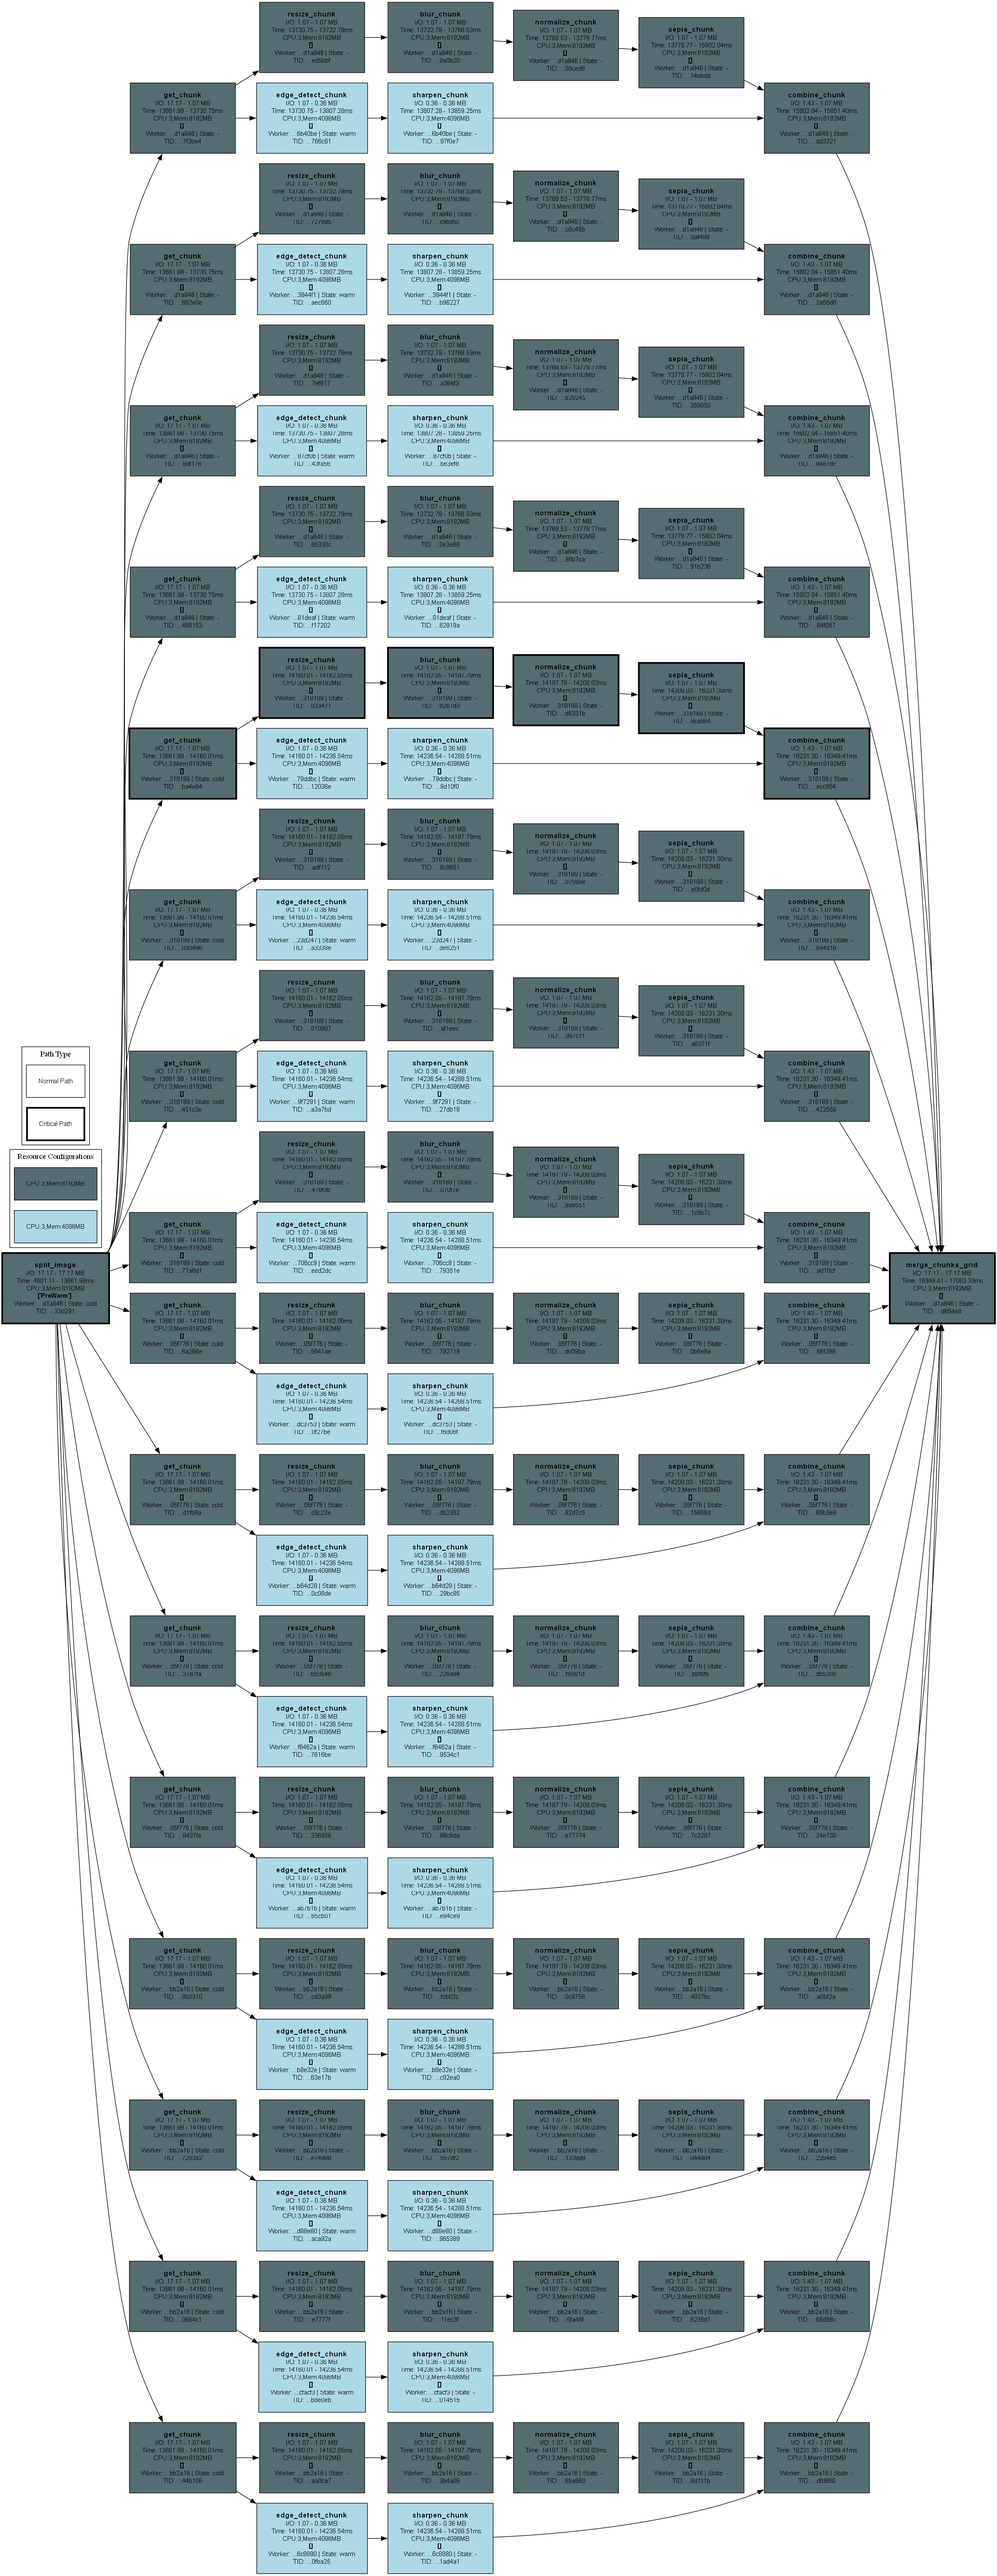
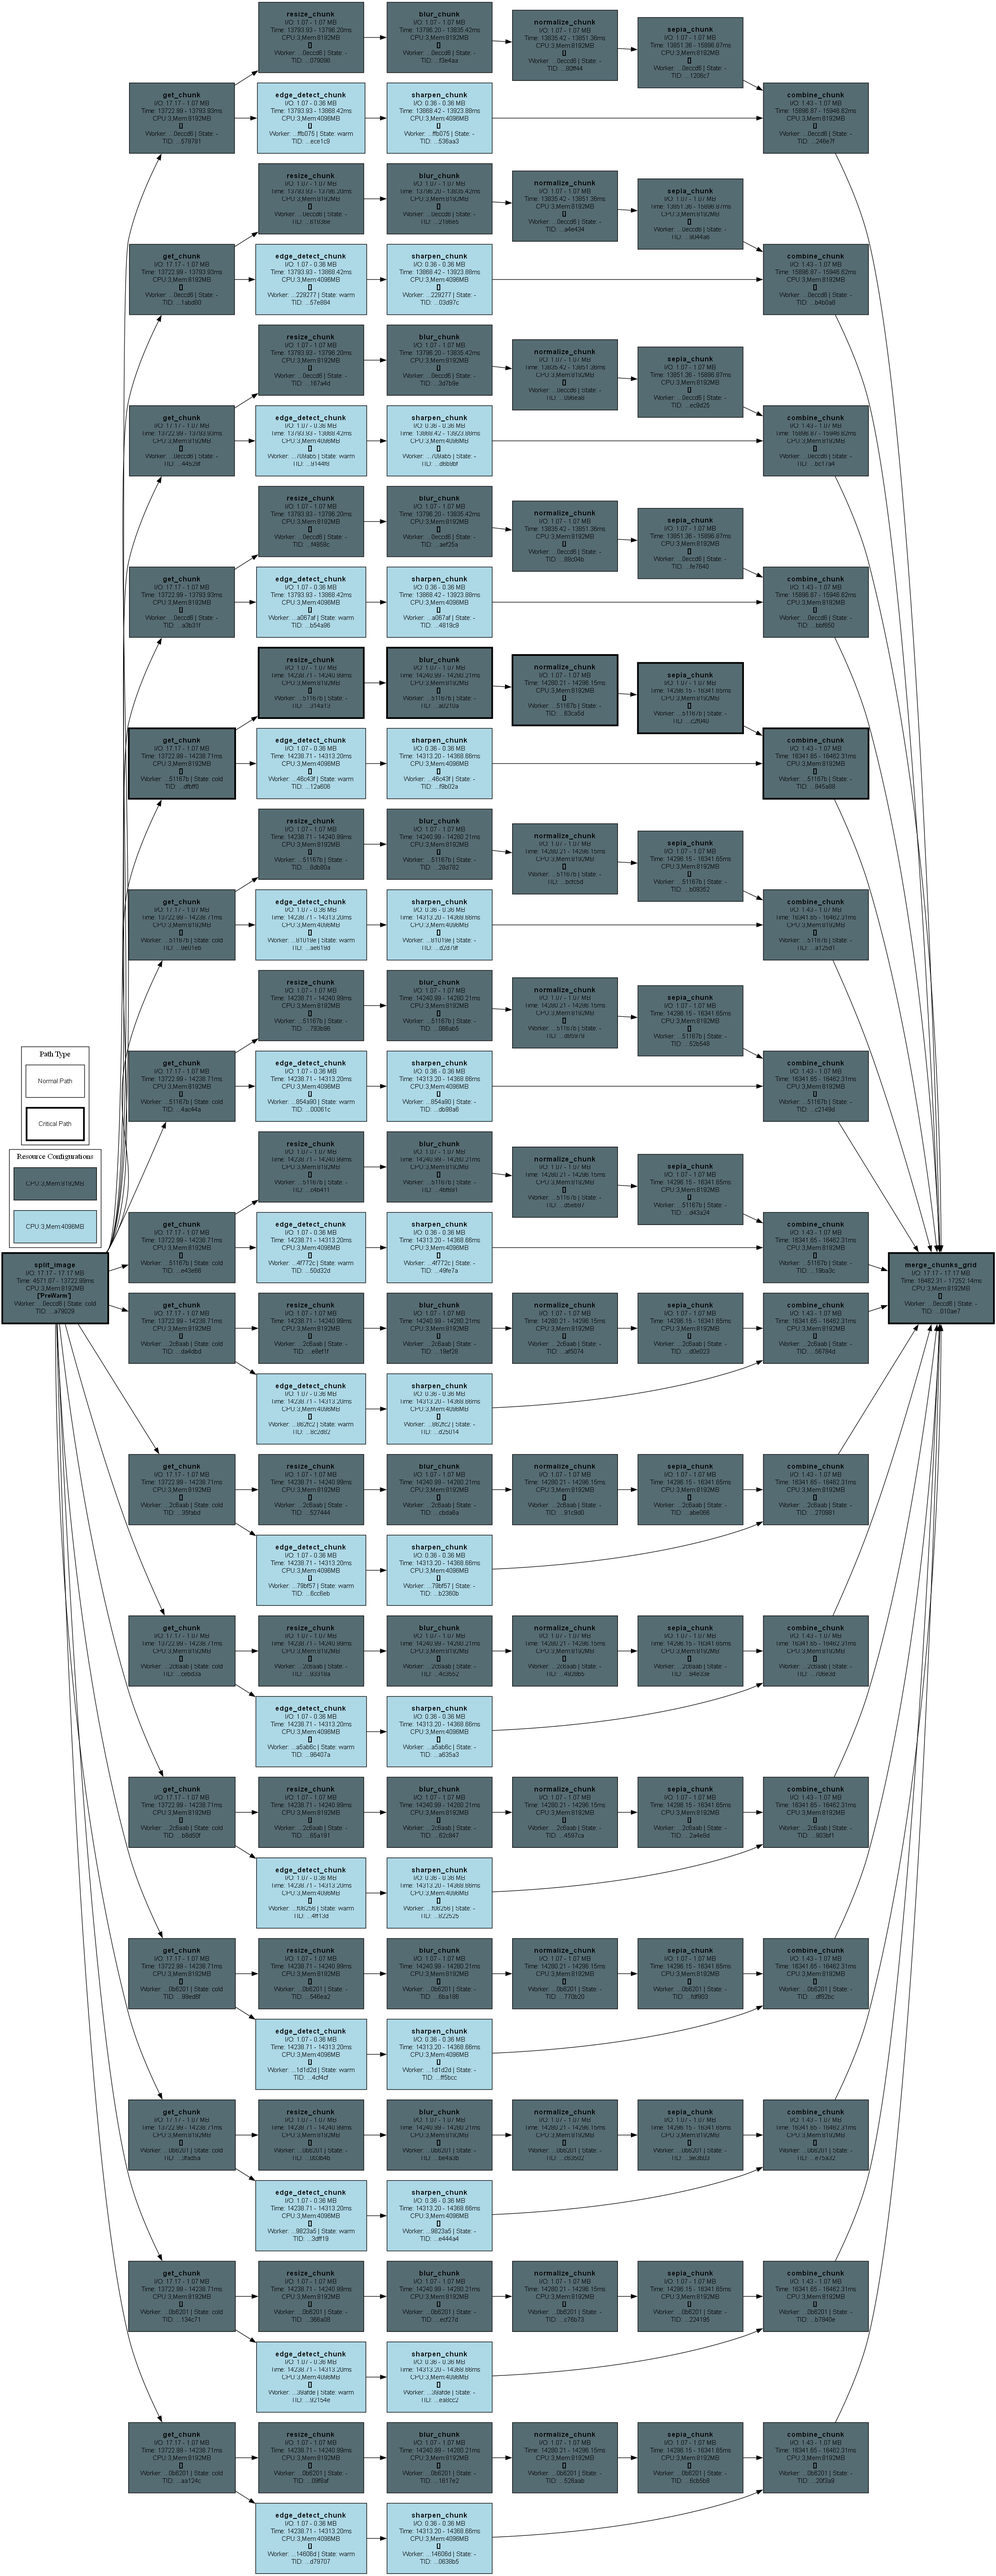
prewarms being successful now

diff --git a/src/docker_workers_gateway/container_pool_executor.py b/src/docker_workers_gateway/container_pool_executor.py
@@ -11,7 +11,7 @@ from src.docker_worker_handler.worker import ATOMIC_FILE_FOR_WARM_START_DETECTIO
 
 logger = create_logger(__name__)
 ALLOW_CONTAINER_REUSAGE = True
-TIME_UNTIL_WORKER_GOES_COLD_S = 8
+TIME_UNTIL_WORKER_GOES_COLD_S = 7
 
 @dataclass
 class Container:
@@ -51,13 +51,12 @@ class ContainerPoolExecutor:
         
         logger.info(f"[{self._get_time_formatted()}] EXECUTING IN CONTAINER: {container_id} | command length: {len(command)}")
 
-        # new_container_id = f"reused_{container_id}"
-
-        # # rename the container
-        # subprocess.run(
-        #     ["docker", "rename", container_id, new_container_id],
-        #     check=True
-        # )
+        # helps debugging prewarm timings
+        try:
+            new_container_id = f"reused_{container_id}"
+            subprocess.run(["docker", "rename", container_id, new_container_id], check=True)
+        except subprocess.CalledProcessError as e:
+            pass # ignore, throws when renaming to the same name.....
 
         process = subprocess.Popen(
             [
@@ -229,11 +228,17 @@ class ContainerPoolExecutor:
                     # Launch a new container
                     logger.info(f"(wait_for_container) Launching new container for DAG: {dag_id}")
                     container_id = self._launch_container(cpus, memory, dag_id)
+                    assert container_id is not None, "ContainerPoolExecutor.wait_for_container: _launch_container returned None"
                     return container_id
     
-    def _launch_container(self, cpus, memory, dag_id, name_prefix: str = "", is_prewarm: bool = False):
+    def _launch_container(self, cpus, memory, dag_id, name_prefix: str = "", is_prewarm: bool = False) -> str | None:
         # Generate a random 16-digit ID
         container_name = f"{name_prefix}{cpus}x{memory}-DAG_{dag_id}-RAND_{uuid.uuid4()}"
+
+        with self.lock:
+            if len(self.containers) >= self.max_containers:
+                logger.warning("Max containers reached. Can't launch new container")
+                return None
 
         # Run the Docker container with resource limits and custom name
         container_id = subprocess.check_output(
@@ -247,11 +252,11 @@ class ContainerPoolExecutor:
             ],
             text=True
         ).strip()
+
         if is_prewarm:
-            # rename the container
             subprocess.run([
                 "docker", "exec", container_id,
-                "sh", "-c", f"touch /tmp/{ATOMIC_FILE_FOR_WARM_START_DETECTION}"
+                "sh", "-c", f"touch {ATOMIC_FILE_FOR_WARM_START_DETECTION}"
             ], check=True)
 
         with self.lock:

diff --git a/src/planning/optimizations/prewarm.py b/src/planning/optimizations/prewarm.py
@@ -62,10 +62,10 @@ class PreWarmOptimization(TaskOptimization, WorkerExecutionLogic):
         
         # DEBUG: Tuning parameter for prewarm timing preference
         # Range: 0.0 to 1.0
-        # - 0.0: prefer earliest possible prewarm (maximum time buffer, safest but worker might go cold)
-        # - 0.5: prefer ideal timing (balanced)
-        # - 1.0: prefer latest possible prewarm (closest to target start, riskier but fresher warm state)
-        PREWARM_TIMING_PREFERENCE = 0.2 # Default: balanced
+        # - 0.0: earliest possible prewarm (maximum time buffer, safest but worker might go cold)
+        # - 0.5: balanced
+        # - 1.0: latest possible prewarm (closest to target start, riskier but fresher warm state)
+        PREWARM_TIMING_PREFERENCE = 0.7
 
         for my_key, my_info in worker_timelines.items():
             # Skip if not cold start or if it's a root node (no upstream)

diff --git a/src/docker_workers_gateway/handler.py b/src/docker_workers_gateway/handler.py
@@ -80,7 +80,12 @@ def handle_warmup():
 
     for resource_configuration in resource_configurations:
         print("Warming up resource configuration: ", resource_configuration)
-        container_id = container_pool._launch_container(cpus=resource_configuration.cpus, memory=resource_configuration.memory_mb, dag_id=dag_id, name_prefix="PRE-WARMED_")
+        container_id = container_pool._launch_container(cpus=resource_configuration.cpus, memory=resource_configuration.memory_mb, dag_id=dag_id, name_prefix="PRE-WARMED_", is_prewarm=True)
+        
+        if container_id is None:
+            logger.error("Max containers reached. Can't launch new container")
+            return jsonify({"error": "Max containers reached. Can't launch new container"}), 400
+
         container_pool.release_container(container_id)
     return "", 202
 

diff --git a/_examples/common/config.py b/_examples/common/config.py
@@ -93,8 +93,7 @@ def get_planner_from_sys_argv():
         return NonUniformPlanner.Config(
             sla=sla,
             worker_resource_configurations=non_uniform_resources,
-            # optimizations=[PreLoadOptimization, TaskDupOptimization, PreWarmOptimization]
-            optimizations=[PreWarmOptimization]
+            optimizations=[PreLoadOptimization, TaskDupOptimization, PreWarmOptimization]
         )
     else:
         raise ValueError(f"Unhandled planner type: {planner_type}")

diff --git a/src/planning/abstract_dag_planner.py b/src/planning/abstract_dag_planner.py
@@ -31,7 +31,7 @@ class AbstractDAGPlanner(WorkerExecutionLogic):
     """
 
     MAX_FAN_OUT_SIZE_W_SAME_WORKER = 4
-    TIME_UNTIL_WORKER_GOES_COLD_S = 8
+    TIME_UNTIL_WORKER_GOES_COLD_S = 7
 
     @property
     def planner_name(self) -> str:

diff --git a/TODO.md b/TODO.md
@@ -1,11 +1,5 @@
 - Dashboard
     [IMPLEMENTATION]
-    - prewarms are happening but not being effective (19 prewarms only 1 warm start :()
-    - prewarm: 
-        [REMEMBER_TO_REVERT_THIS] make "non-uniform-opt" only use prewarm optimization
-        then run "non-uniform-opt" 5 times on "image transform" manually and see how many prewarms were assigned (LOOK AT PLAN IMAGE)
-        then run "non-uniform" and compare on dashboard (cold starts vs warm starts)
-    - prewarm: take a look at the assignment logic
     - try running montage again? and collecting metrics?
 
     - Dashboard
